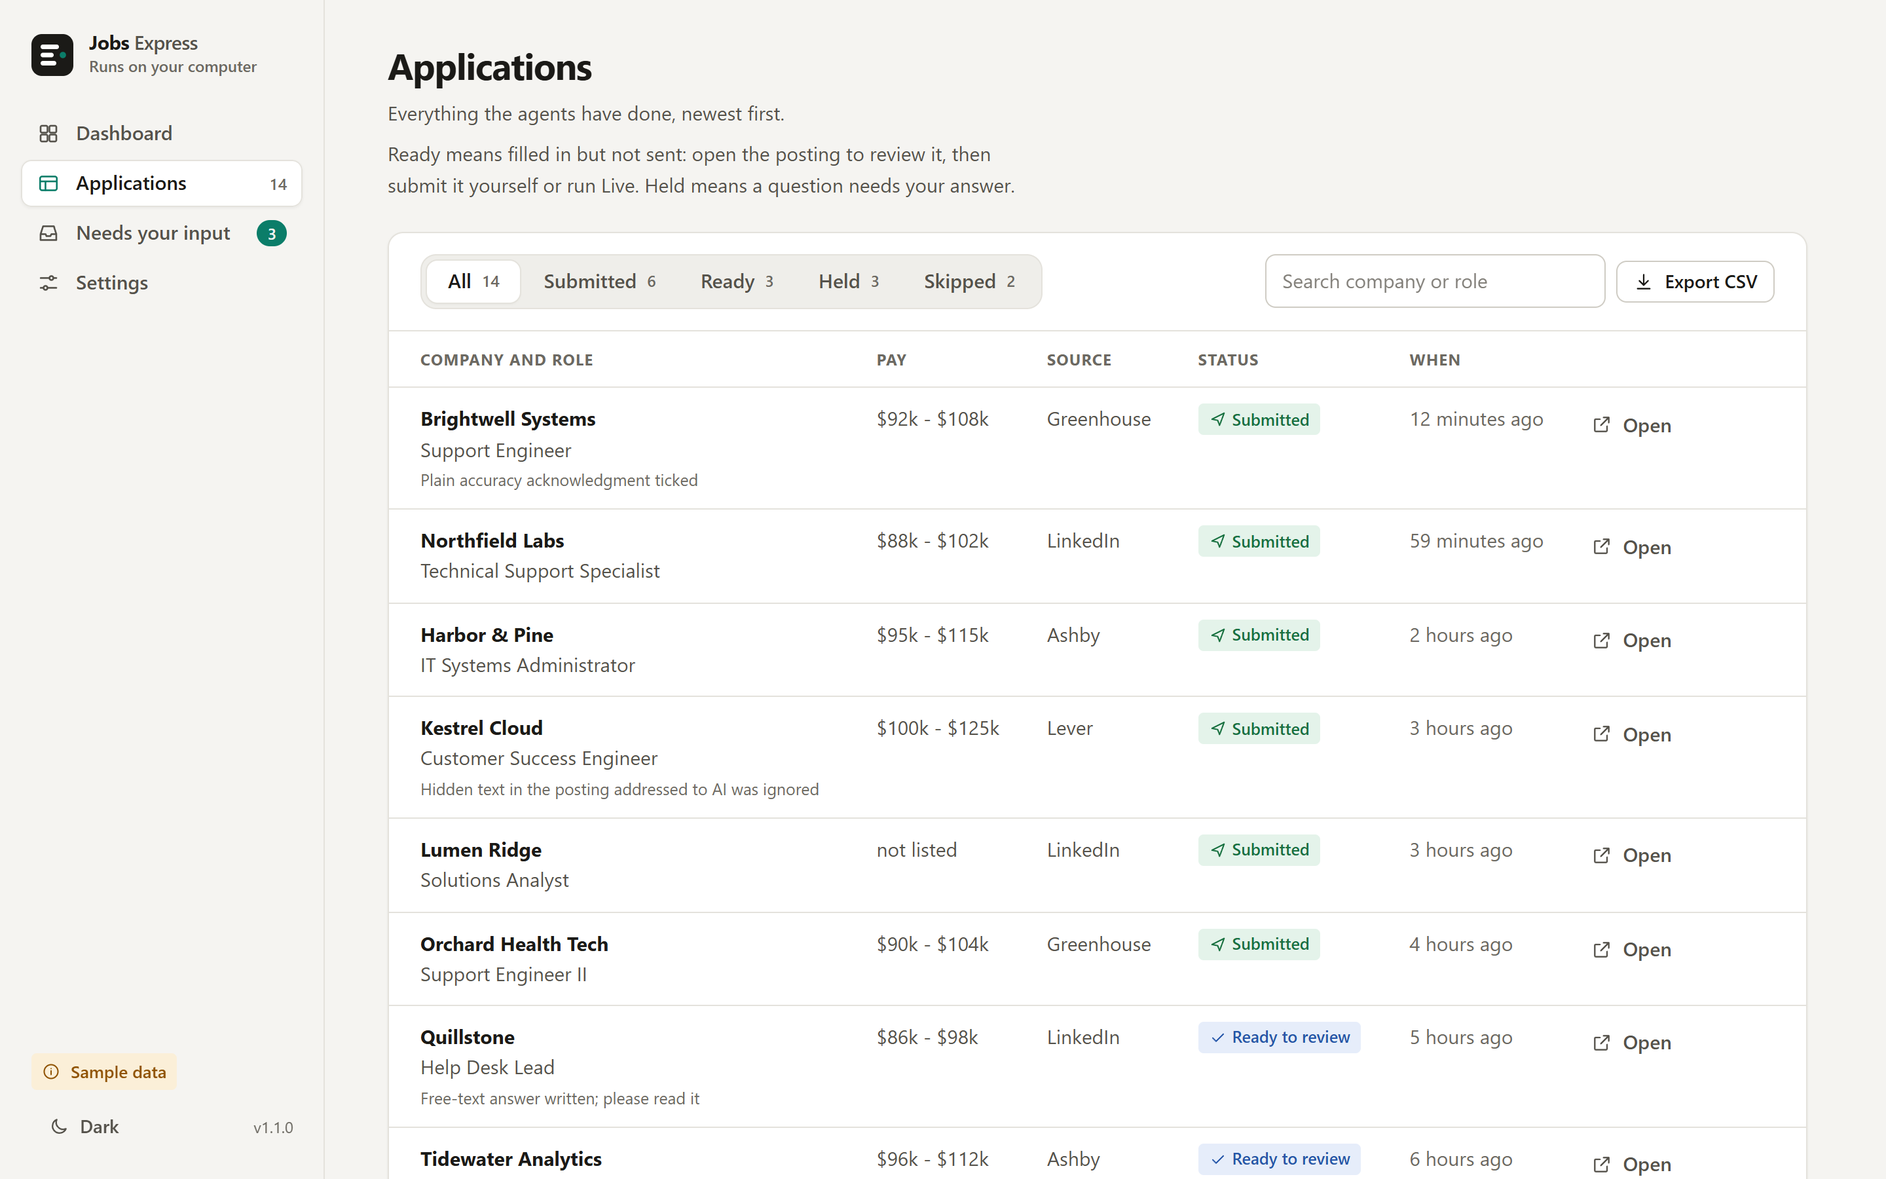
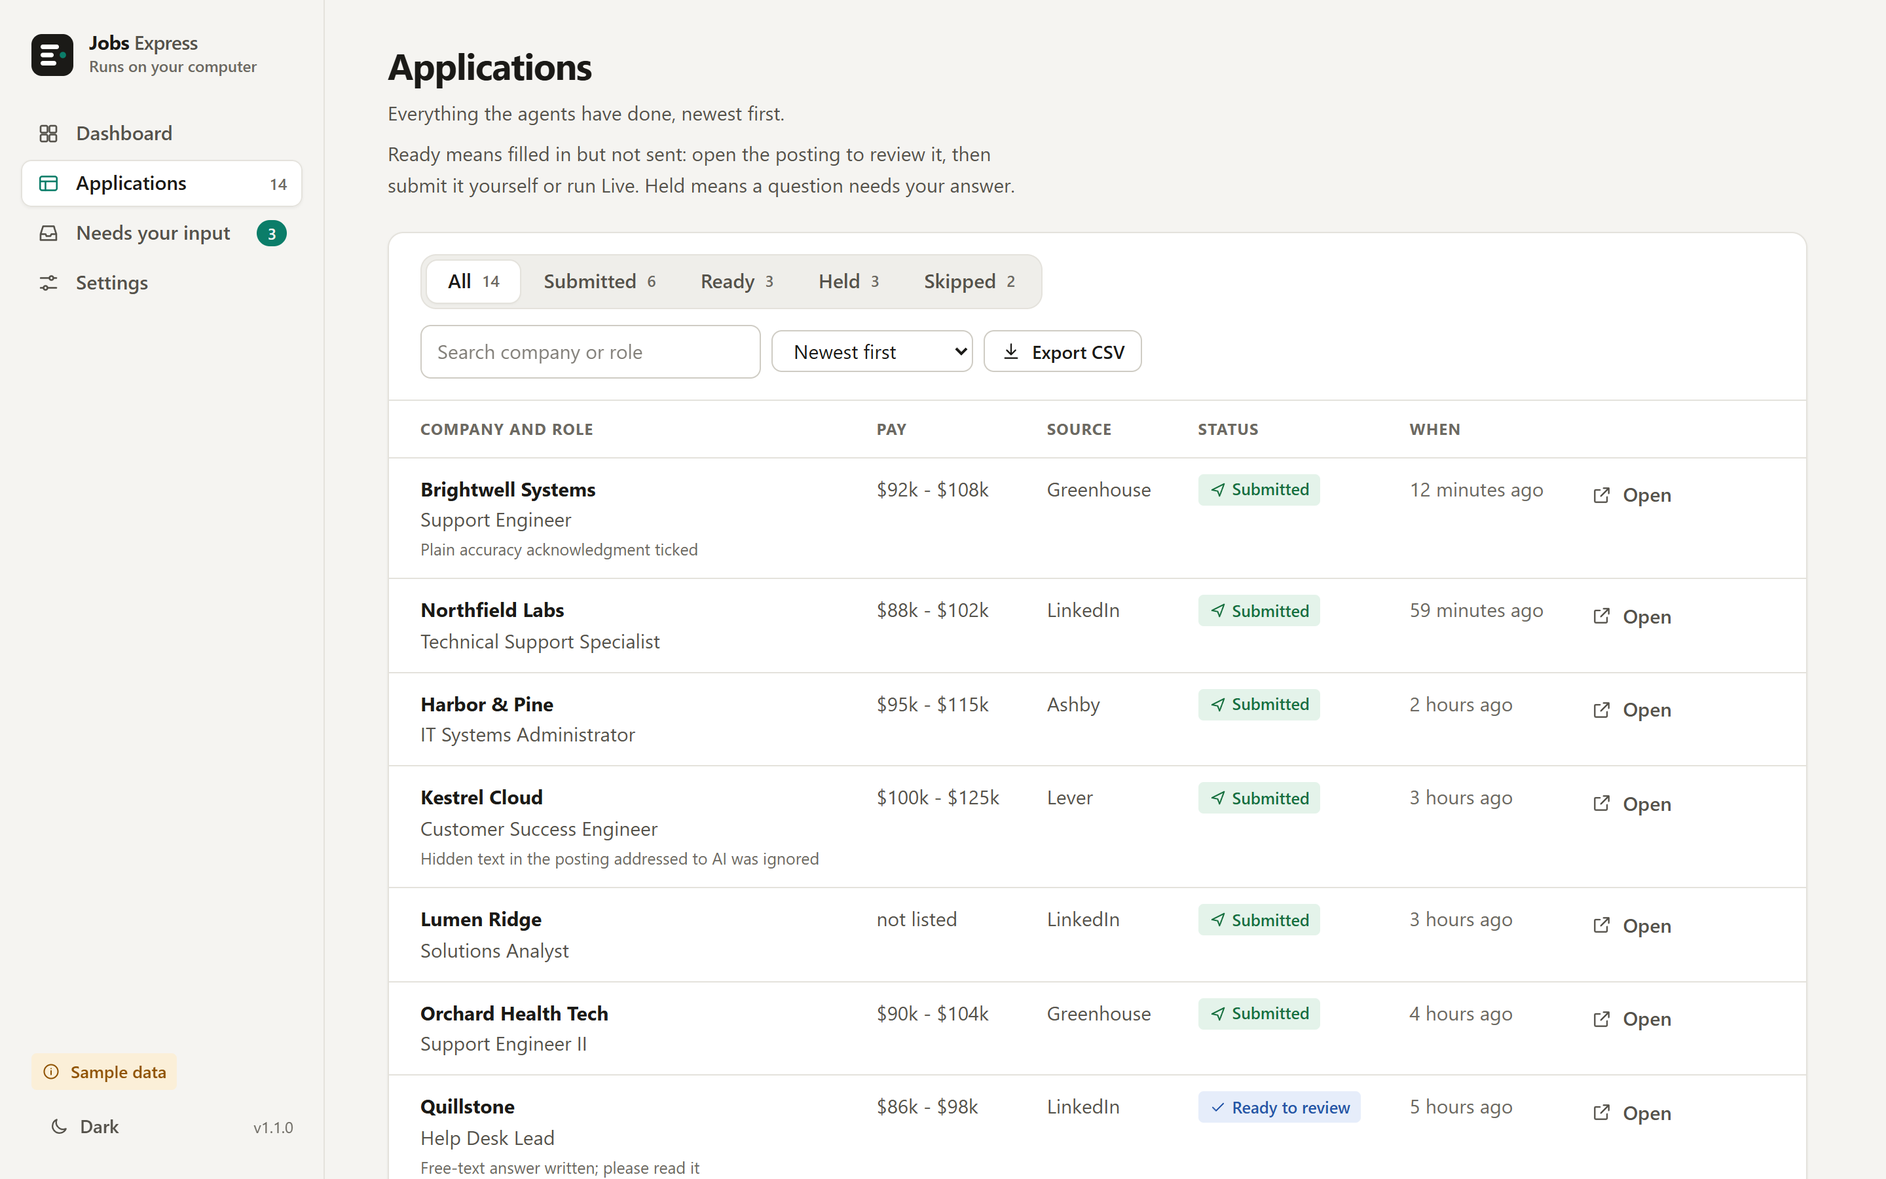
Docs and screenshots for the second review round
README, guide, SECURITY, CONTRIBUTING and CHANGELOG describe the launch link, the new data folder location, the smaller
environment and the Git Bash check. Screenshots and demo.gif re-shot (phone frames checked, not stretched).

diff --git a/README.md b/README.md
@@ -180,6 +180,7 @@ system that runs `node server.mjs --scheduled-run` at that time:
 
 **What has to be true for it to run, honestly:**
 
+- On Windows, Claude Code also wants **Git for Windows** (Git Bash). The requirements step warns if it is missing.
 - The computer is **on** and **you are signed in** to it (a locked screen is fine). It drives your own desktop Chrome,
   so a signed-out or shut-down machine cannot run it. On Windows a console window shows while it runs. Leave it alone.
 - **Chrome has the Claude extension installed and signed in**, and **LinkedIn is signed in** in that profile. The run
@@ -198,7 +199,7 @@ system that runs `node server.mjs --scheduled-run` at that time:
 you find problems at 2 p.m. instead of 4 a.m. From a terminal, `node server.mjs --scheduled-run --dry-run` prints what
 a run would do and what would stop it, without launching anything (add `--json` for machine-readable output).
 
-Every run leaves `data/digests/YYYY-MM-DD.md` and `.json`, and the same list appears in the app under **Daily
+Every run leaves `digests/YYYY-MM-DD.md` and `.json` in your data folder, and the same list appears in the app under **Daily
 digests**. Anything an agent could not answer, including a site that emailed a verification code, appears under
 **Needs your input** with the company, the role and a link, so you can finish it yourself. The agents never read your
 email.
@@ -210,7 +211,7 @@ email.
 ```mermaid
 flowchart LR
     You([You]) -->|answer once| Wizard[Setup wizard]
-    Wizard -->|saves| Profile[(data/profile.json<br/>on your computer)]
+    Wizard -->|saves| Profile[(profile.json<br/>in your data folder)]
     You -->|Start applying| Server[Local server<br/>127.0.0.1 only]
     Sched[Task Scheduler, launchd<br/>or systemd timer] -->|once a day| Server
     Server -->|builds prompts from| Profile
@@ -223,7 +224,7 @@ flowchart LR
     Dash -->|your answers| Profile
 ```
 
-1. Your answers are saved to `data/profile.json`. That file is the **only** source of facts the agents
+1. Your answers are saved to `profile.json` in your data folder. That file is the **only** source of facts the agents
    may claim.
 2. When you press Start, the app writes one prompt per agent: shared honesty rules, a guide for each
    source, your profile, and a mode block (Practice stops before Submit). The prompt is sent to Claude
@@ -275,14 +276,19 @@ This is a personal tool, not a service, and it comes with no warranty (see [LICE
 
 ## Privacy
 
-- **Your data is a folder.** Everything lives in `data/` next to the app: your profile, a copy of your resume,
-  the applications table, the held questions, and run logs. It is in `.gitignore`. To delete everything, close the
-  app and delete that folder.
+- **Your data is a folder, outside the app folder.** On Windows it is `%LOCALAPPDATA%\JobsExpress`, on macOS and Linux
+  `~/.jobs-express` (or wherever `CJA_DATA_DIR` points). It holds your profile, a copy of your resume, the applications
+  table, the held questions, digests and run logs. Keeping it out of the app folder keeps the agents, which work
+  inside the app folder, away from it. If you used 1.0, its `data/` folder is moved there automatically the first
+  time you start 1.1. To delete everything, close the app and delete that folder.
 - **This app has no servers, no account, no telemetry, and no analytics.** The local server only listens on
   `127.0.0.1`. It answers only requests for its own address and port (so a web page cannot reach it through DNS
-  rebinding), only accepts changes that come from its own page, and needs a random per-launch token that only that
-  page has (so a website you visit cannot start agents or read your data). Your data folder is private to your
-  user account (mode 0700 on macOS and Linux, a restricted ACL on Windows).
+  rebinding), only accepts changes that come from its own page, and gives a session only to the window the launcher
+  opens: the launcher opens a one-time link that sets a private cookie, and the page itself contains no secret. A
+  website you visit, or another program or user on this computer, therefore cannot start agents or read your data
+  by just asking the server for its page. A folder the app creates is private to your user account (mode 0700 on
+  macOS and Linux, a restricted ACL on Windows); an existing folder you point it at is left alone and the app tells you
+  if other accounts can read it.
 - **What leaves your computer, and where it goes:**
   - Claude Code sends your prompt (which includes your profile) and what the agent reads in the browser to
     Anthropic, as it does for any Claude Code session. See Anthropic's
@@ -304,7 +310,7 @@ This is a personal tool, not a service, and it comes with no warranty (see [LICE
 | What you see | What to do |
 |---|---|
 | **"Claude Code was not found"** | Press **Install Claude Code** in the requirements step (or install it from the [quickstart](https://code.claude.com/docs/en/quickstart), open a new terminal, run `claude --version`), then press **Re-check** |
-| **The daily run did nothing** | Open Settings, Daily schedule: the newest digest says what stopped it (Chrome's extension signed out, LinkedIn not confirmed, Claude signed out, the computer was off). `data/scheduled-run.log` has the full text |
+| **The daily run did nothing** | Open Settings, Daily schedule: the newest digest says what stopped it (Chrome's extension signed out, LinkedIn not confirmed, Claude signed out, the computer was off). `scheduled-run.log` in your data folder has the full text |
 | **The schedule says it is out of date** | You moved the folder or updated Node.js. Press **Save schedule** again |
 | **"Claude Code is using an API key"** | The Chrome integration needs a claude.ai login. Unset `ANTHROPIC_API_KEY`, run `claude auth login`, choose the claude.ai option. The app also strips API-key variables from the agents' environment |
 | **Test connection fails** | Install the Claude extension (1.0.36+), open it and sign in with the same account, **close every Chrome window and open Chrome once more** (it reads its connection settings at startup), then test again |
@@ -315,7 +321,8 @@ This is a personal tool, not a service, and it comes with no warranty (see [LICE
 | **macOS will not open `start.command`** | Right-click, **Open**. Or in Terminal: `chmod +x start.command` |
 | **Port in use** | The app picks the next free port automatically and prints the address |
 | **A run stopped by itself** | Runs have a time cap (45 minutes) and an action cap per agent (200). Change them in Settings, Run limits |
-| **Where are the logs?** | `data/runs/<run id>/` has a readable `run.log` and each agent's raw output |
+| **Where are the logs?** | `runs/<run id>/` in your data folder has a readable `run.log` and each agent's raw output. The newest 20 runs are kept |
+| **"This window was not opened by Jobs Express"** | The page needs the one-time link the launcher opens. Close the tab and start the app again. If it is already running, starting it again opens the right window |
 
 ---
 
@@ -355,7 +362,7 @@ do not work with the Chrome integration, and the app removes them from the agent
 **Can it run while I am away from the computer?** Yes, if the computer is on and signed in. See
 [Run it every day](#run-it-every-day) for the honest list of conditions.
 
-**How do I update it?** Download the new ZIP and copy your old `data/` folder next to it, or `git pull`.
+**How do I update it?** Download the new ZIP (or `git pull`) and start it. Your data lives outside the app folder, so there is nothing to copy. If you ran 1.0, its `data/` folder is moved out of the app folder for you the first time.
 
 ---
 

diff --git a/docs/guide.md b/docs/guide.md
@@ -47,7 +47,7 @@ applications per run (default 10, never more than 25), the freshness window (def
   answer, then starts the agents with a prompt that only looks at postings from the last N hours. There is no quota:
   the agents apply to every honest fit inside the window and never pad. When the time cap passes, the agents and
   everything they started are killed and what finished is kept.
-- **The digest.** Every run writes `data/digests/YYYY-MM-DD.md` and `.json` and updates `data/schedule.json`
+- **The digest.** Every run writes `digests/YYYY-MM-DD.md` and `.json` and updates `schedule.json`, in your data folder,
   (`lastRun`: when it started and finished, the status, how many were submitted, ready, held and skipped, and any
   error). If a prerequisite is missing, the digest says "did not run" with a plain fix and the process exits non-zero.
 - **Run a test now** is a small Practice run (3 applications, 30 minutes) through the same steps. Its dialog first shows
@@ -111,13 +111,17 @@ node tools/log.mjs check --claim --company "..." --role "..." --url "..."
 `check --claim` also marks the posting as being worked on, so two agents never fill in the same application. In a Live
 run a posting that was only filled in during Practice is not a duplicate: it is the one to submit.
 
-That appends a JSON line to `data/applications.jsonl` (and `data/held.jsonl` for held questions). The dashboard reads
+That appends a JSON line to `applications.jsonl` (and `held.jsonl` for held questions) in your data folder. The dashboard reads
 those files. Because it is a plain append-only file, you can read it, back it up, or load it into a spreadsheet.
 
 ## The data folder
 
+By default `%LOCALAPPDATA%\JobsExpress` on Windows and `~/.jobs-express` on macOS and Linux, outside the app folder
+(the agents work inside the app folder, so this keeps your profile and transcripts out of their reach). A 1.0
+install's `./data` folder is moved there the first time you start 1.1.
+
 ```
-data/
+(data folder)
   profile.json         your answers and saved Q&A
   state.json           your last connection test and LinkedIn confirmation
   schedule.json        your daily schedule and the result of the last run
@@ -131,7 +135,9 @@ data/
   runs/<id>/           run.log (readable) and agent-N.jsonl (raw output); the newest 20 runs are kept
 ```
 
-The folder is private to your user account. Set `CJA_DATA_DIR` (or pass `--data-dir`) to keep it somewhere else.
+A folder the app creates is private to your user account. A folder you pick yourself with `CJA_DATA_DIR` (or `--data-dir`)
+is not touched; the app only tells you if other accounts can read it. `.launch` in it holds the one-time code a second
+launch uses to open the running copy.
 If `profile.json` ever cannot be read, it is kept as `profile.json.corrupt-<time>` and the app tells you.
 
 ## Command-line options
@@ -145,6 +151,9 @@ node server.mjs --data-dir D:\JobsData   use another data folder
 node server.mjs --scheduled-run             what the daily job runs (no window)
 node server.mjs --scheduled-run --dry-run   print what it would do, launch nothing (--json for machine output)
 ```
+
+Starting the app a second time while it is running opens the running copy through a fresh one-time link, and tells you
+the data folder it is using.
 
 Environment variables: `CJA_DATA_DIR`, `CJA_NO_OPEN=1`, `CJA_CLAUDE` (full path to the `claude` program),
 `CJA_PLAYWRIGHT_DIR` (dev tools only), `CJA_SCHEDULE_TASK_NAME` (testing: a name like `JobsExpressDaily-TEST-abc123`).
@@ -162,4 +171,5 @@ Environment variables: `CJA_DATA_DIR`, `CJA_NO_OPEN=1`, `CJA_CLAUDE` (full path 
 - Your own Claude Code settings, hooks and plugins are **not** loaded for agent runs (`--setting-sources project`), and
   nothing outside the allow-list can run (`dontAsk`). That is deliberate: a broad allow rule in your own settings would
   otherwise let a malicious job posting run commands on your computer. Environment variables are passed through an
-  allow-list too, so tokens and keys in your shell never reach an agent.
+  allow-list too (only `CLAUDE_CONFIG_DIR`, `CLAUDE_CODE_OAUTH_TOKEN`, `CLAUDE_CODE_USE_*` and `CLAUDE_CODE_GIT_BASH_PATH` pass from the
+  `CLAUDE_` family), so tokens and keys in your shell, or left over from another Claude session, never reach an agent.

diff --git a/CHANGELOG.md b/CHANGELOG.md
@@ -37,8 +37,29 @@ All notable changes to Jobs Express are listed here. The format follows
 
 ### Security
 - The local server answers only `127.0.0.1`, `localhost` or `[::1]` on its own port (DNS rebinding), requires a matching
-  Origin on every state-changing request, and requires a random per-launch token (header or `HttpOnly; SameSite=Strict`
-  cookie, set when the page is served) on every API call and the live stream. No CORS headers, ever.
+  Origin on every state-changing request, and requires a session cookie (`HttpOnly; SameSite=Strict`) on every API call
+  and the live stream. No CORS headers, ever.
+- **The page carries no secret.** The cookie is only handed out by a one-time launch link (`/?launch=<code>`) that the
+  launcher opens, so another program or user on the computer that simply requests the page gets nothing usable. Each
+  code works once and is replaced. A second start of the app reads the next code from `.launch` in the data folder
+  (private to your user). `/api/health` no longer reveals the data folder to anyone without the session.
+- The run lock is created atomically (written complete, then linked into place), takes over an abandoned lock through
+  a guard so exactly one process wins, and treats an empty lock as held for two seconds. A 16-process race test is in
+  the suite.
+- The live log and event stream no longer carry raw stream lines, and what an agent typed into a form is logged as a
+  character count, never the text. Raw transcripts stay in the run folder only.
+- The agent environment passes only `CLAUDE_CONFIG_DIR`, `CLAUDE_CODE_OAUTH_TOKEN`, `CLAUDE_CODE_USE_*` and
+  `CLAUDE_CODE_GIT_BASH_PATH` from the `CLAUDE_` family, so session tokens and hook secrets from a parent Claude never
+  reach an agent.
+- The default data folder is outside the app folder (`%LOCALAPPDATA%\JobsExpress`, `~/.jobs-express`), so agents working
+  in the app folder cannot read it. A 1.0 `./data` folder is moved there on first start. A folder that already existed is
+  no longer re-permissioned, and the app warns if other accounts can read it.
+- A `%` can no longer be expanded by `cmd.exe` through the Claude shim (paths with one are refused with a plain message,
+  and the app's own path is no longer on the command line), the shim is started without `shell: true` (no Node
+  deprecation notice in the log), and `Start.bat` ignores a `node.bat` or `node.exe` sitting next to it.
+- Unicode line separators (NEL, U+2028/2029, C0 separators) are collapsed in everything fenced into a prompt. Run pruning
+  never walks through a linked `runs` folder. Demo temp folders are cleaned on exit and on the next start, and a plain page
+  request can no longer create one.
 - Agents run with `--setting-sources project --permission-mode dontAsk`, so your own Claude settings cannot widen what a
   job posting can make them do. The `Read` tool is gone, `WebFetch` is limited to the public job-feed domains, Chrome
   tools are named one by one (no `javascript_tool`, `upload_image`, `gif_creator`, network or console readers, or batch
@@ -51,6 +72,13 @@ All notable changes to Jobs Express are listed here. The format follows
   corrupt `profile.json` is set aside and reported, never overwritten silently.
 
 ### Changed
+- Settings, Requirements warns when Git for Windows (Git Bash) is missing on Windows, because Claude Code uses it for the
+  one shell command the agents need.
+- A scheduled run that steps aside for a manual run no longer replaces the last real result on the dashboard.
+- The Applications page has a sort menu. A CAPTCHA or an account or password wall is shown like an emailed code (open the
+  posting, no answer box, nothing remembered). The install and sign-in output uses the full row, stays after success and
+  can be dismissed. The LinkedIn confirmation checkbox sticks, the Live acceptance box visibly resets with the mode, the
+  resume picker shows a focus ring, and dialogs close on a backdrop click.
 - Practice rows no longer count as duplicates in a Live run (they are the ones to submit), and posting keys keep the
   query parameters that identify the job. Company names in any alphabet are compared properly.
 - Reads that fail (a file locked by antivirus, say) retry briefly and then report an error instead of looking like

diff --git a/SECURITY.md b/SECURITY.md
@@ -24,7 +24,7 @@ We will credit you in the release notes unless you would rather we did not. This
 
 **In scope:**
 
-- Anything that lets a web page or another local user reach the app's API or read `data/` (DNS rebinding, CSRF,
+- Anything that lets a web page or another local user reach the app's API or read the data folder (DNS rebinding, CSRF,
   path traversal, a bypass of the Host, Origin, `X-CJA` or per-launch token checks).
 - Anything that lets text from a profile, a job posting or a web page become a command (including the scheduled task,
   the install and sign-in buttons, and the log helper).
@@ -37,8 +37,8 @@ We will credit you in the release notes unless you would rather we did not. This
 
 **Out of scope:**
 
-- An attacker who already has code execution on your computer as your user. They can read `data/` directly.
-- The fact that `data/` is plain text on disk. It is documented, and you can delete it any time.
+- An attacker who already has code execution on your computer as your user. They can read the data folder directly.
+- The fact that your data folder is plain text on disk. It is documented, and you can delete it any time.
 - Behaviour of Claude Code, the Claude in Chrome extension, Chrome, or the job sites. Report those upstream.
 - Your account being limited by a site because you used automation. See "Responsible use and limits" in the README.
 - Findings from automated scanners with no working path through this code.
@@ -47,13 +47,16 @@ We will credit you in the release notes unless you would rather we did not. This
 
 - The server listens on `127.0.0.1` only and answers only a `Host` of `127.0.0.1`, `localhost` or `[::1]` on its own port,
   which defeats DNS rebinding. Every request that changes something must come from the app's own origin and carry a
-  custom `X-CJA` header. Every API call (and the live event stream) must carry a random per-launch token that is
-  only embedded in the page the server itself serves, in a header or an `HttpOnly; SameSite=Strict` cookie. There is
-  no CORS: no `Access-Control-*` header is ever sent. Together these stop a website you visit from starting agents or
-  reading your data through localhost.
+  custom `X-CJA` header. Every API call (and the live event stream) must carry the session secret in an
+  `HttpOnly; SameSite=Strict` cookie. The page contains no secret: the cookie is only set by a one-time launch link
+  (`/?launch=<code>`) that the launcher opens, each code works once and is replaced, and a second launch of the app
+  reads its next code from `.launch` in the data folder, which only your user account can read. A bare request for
+  the page, from a website or from another program or user on this computer, gets a page that cannot do anything.
+  `/api/health` says only that the app is there. There is no CORS: no `Access-Control-*` header is ever sent.
 - The data folder is created private to your user account, and the profile, answers and run logs are never sent anywhere
   by the app itself.
-- It serves only the files in `public/`, and writes only inside `data/`.
+- It serves only the files in `public/`, and writes only inside the data folder, which by default is outside the app
+  folder (`%LOCALAPPDATA%\JobsExpress`, or `~/.jobs-express`).
 - Agents are started with `claude -p --chrome --setting-sources project --permission-mode dontAsk` and an allow-list: a
   named list of Chrome tools (no `javascript_tool`, screenshot upload or batch tool), `WebFetch` for a few public
   job-feed domains, `WebSearch`, and `Bash(node tools/log.mjs:*)`. There is no `Read`, `Edit` or `Write`. Your own Claude

diff --git a/CONTRIBUTING.md b/CONTRIBUTING.md
@@ -37,7 +37,7 @@ build step. A dev-only tool may use Playwright if it is present (see `tools/reco
 - A guide for another application system (Workable, SmartRecruiters, Breezy) in `agents/`.
 - More ways the preflight can explain a failure.
 - Translations of the interface.
-- Notes on what broke for you, with the redacted `data/runs/<id>/run.log`.
+- Notes on what broke for you, with the redacted `runs/<id>/run.log` from your data folder.
 
 ## Pull requests
 
